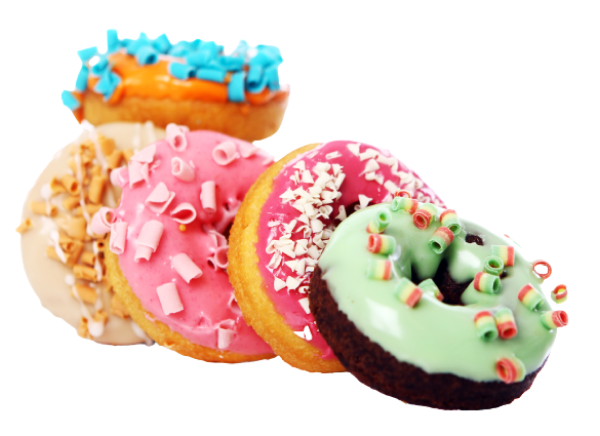
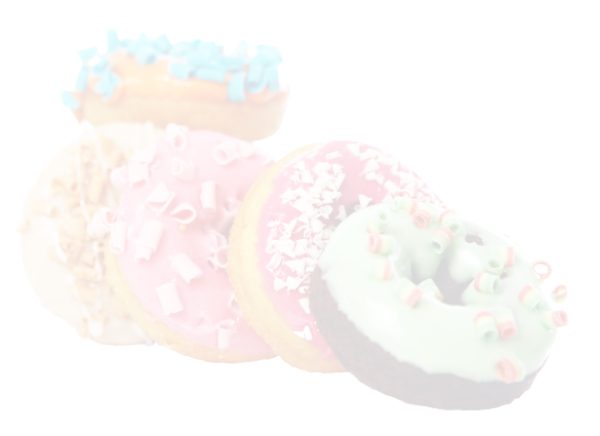
changed and adden images price section

diff --git a/src/sass/layouts/_price.scss b/src/sass/layouts/_price.scss
@@ -10,18 +10,40 @@
 }
 
 .price__item {
-    box-shadow: 10px 15px 25px rgba(210, 201, 201, 0.45);
-    border-radius: 25px 25px 25px 25px;
-    background-color: #fafbfb;
     max-width: 280px;
     margin-left: auto;
     margin-right: auto;
     margin-bottom: 30px;
     padding-top: 16px;
     padding-bottom: 24px;
+    box-shadow: 10px 15px 25px rgba(210, 201, 201, 0.45);
+    border-radius: 25px 25px 25px 25px;
+    background-color: #fafbfb;
 
     @media screen and (min-width: 480px){
         width: 280px;
+    }
+}
+
+.price__item:not(:first-child) {
+    background-image: url('/src/images/price-mob.png');
+    background-repeat: no-repeat;
+    background-position: center 70%;
+
+    @media screen and (min-width: 1200px) {
+        background-image: url('/src/images/price-desk.png');
+    }
+}
+
+.price__item:first-child {
+    @media screen and (min-width: 768px) {
+        background-image: url('/src/images/price-mob-full.png');
+        background-repeat: no-repeat;
+        background-position: center 70%;
+    }
+
+    @media screen and (min-width: 1200px) {
+        background-image: url('/src/images/price-desk.png');
     }
 }
 
